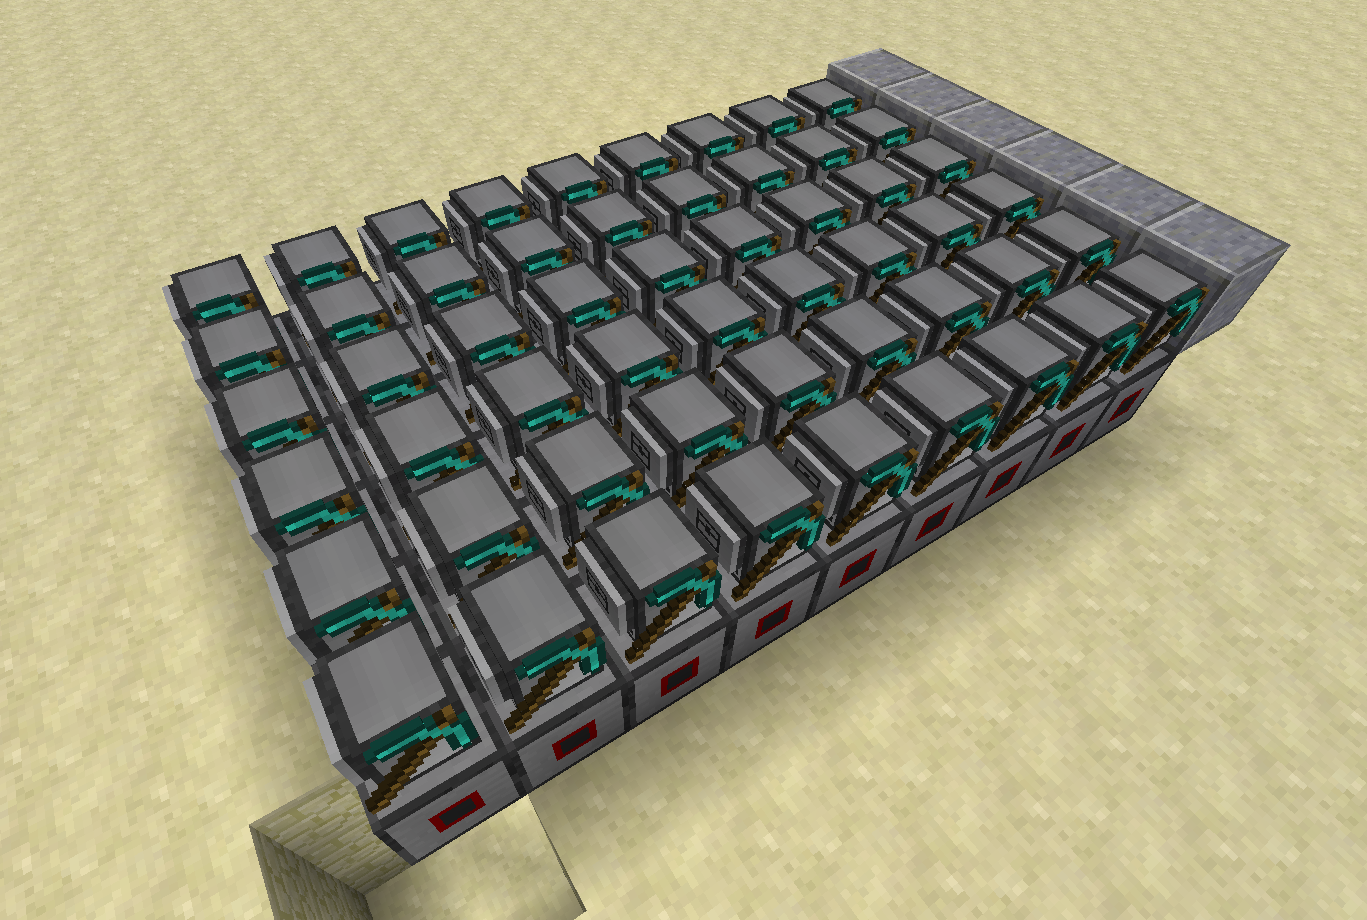
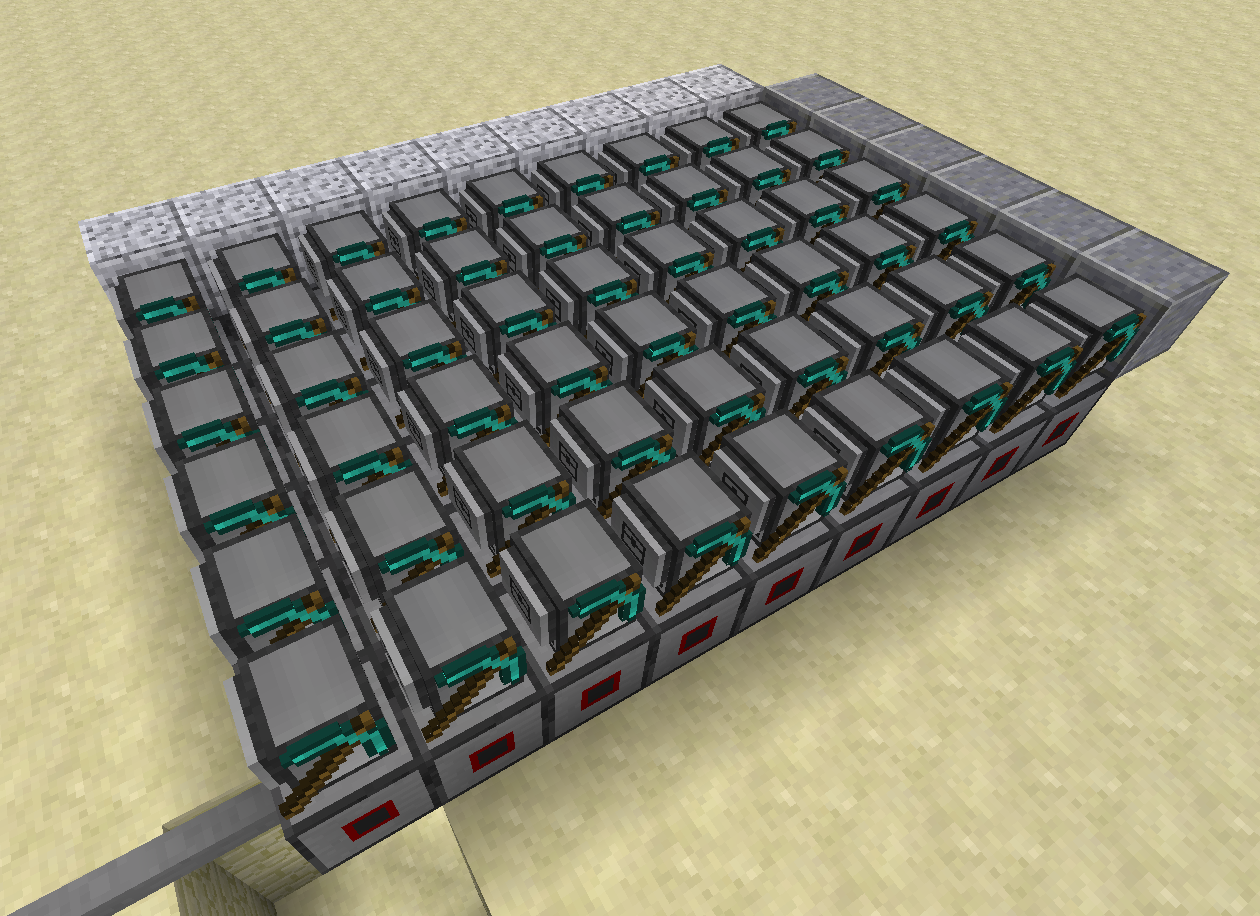
Update Turmitor horizontal orientation setup information

diff --git a/README.md b/README.md
@@ -99,8 +99,11 @@ you do this does not matter, just make sure to get them all!
 **4. Which way is up?**
 
 The turtles do not know what direction they are facing, so determine where the
-"top" of your Turmitor should be, and place polished andesite beside the turtles
-to indicate this.
+"top" of your Turmitor should be, and place polished andesite beside those
+turtles to indicate this. Place polished diorite beside the "left" turtles. With
+the andesite and diorite, the turtles will be able to orient themselves. Once
+the setup is complete, these blocks can be removed, though they will need to be
+replaced if you wish to resize the Turmitor.
 
 <details><summary>Polished Andesite placed along the "top"</summary>
 
